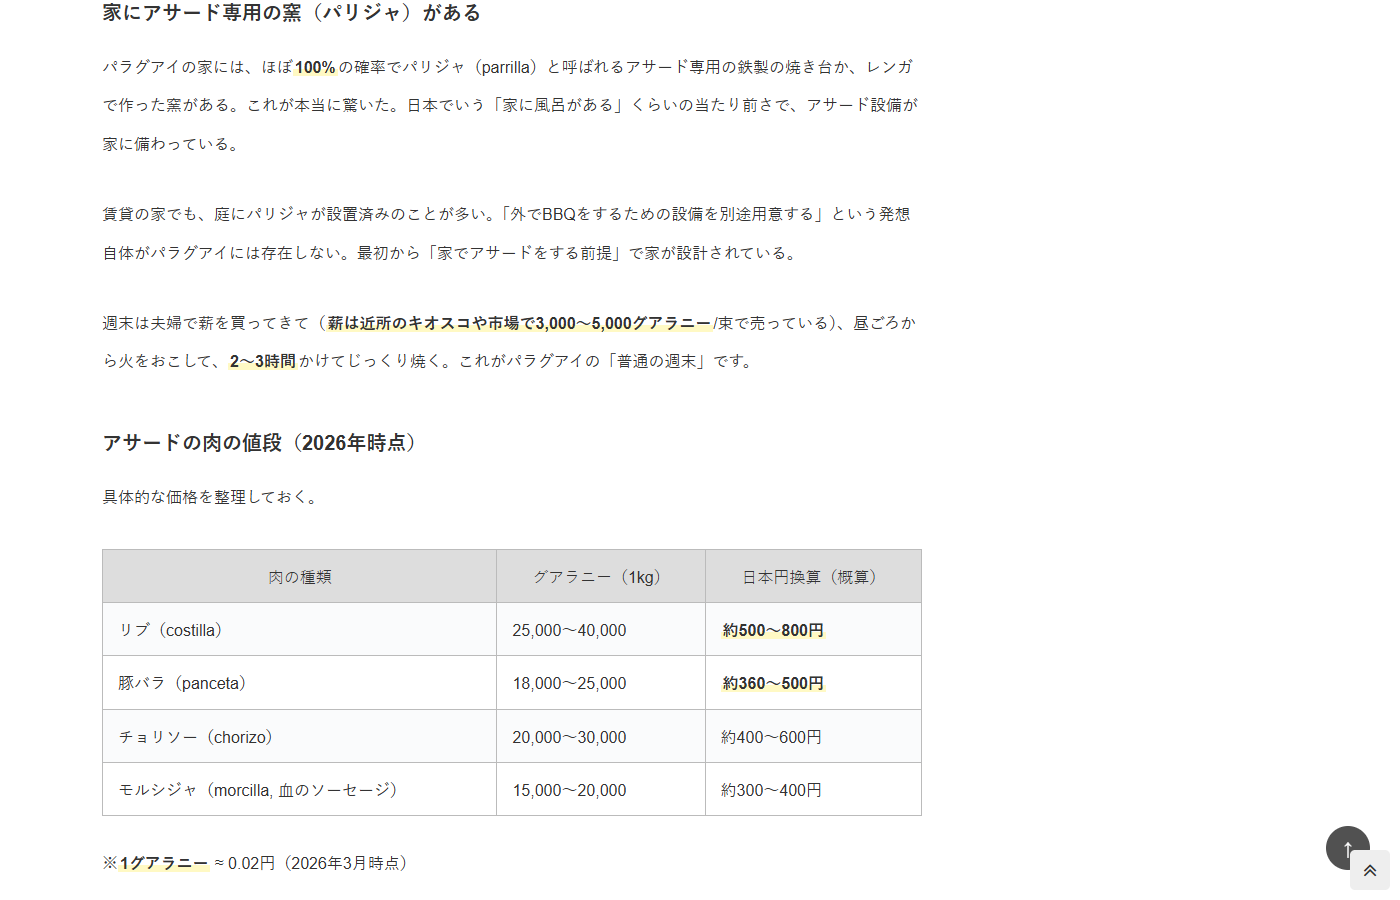
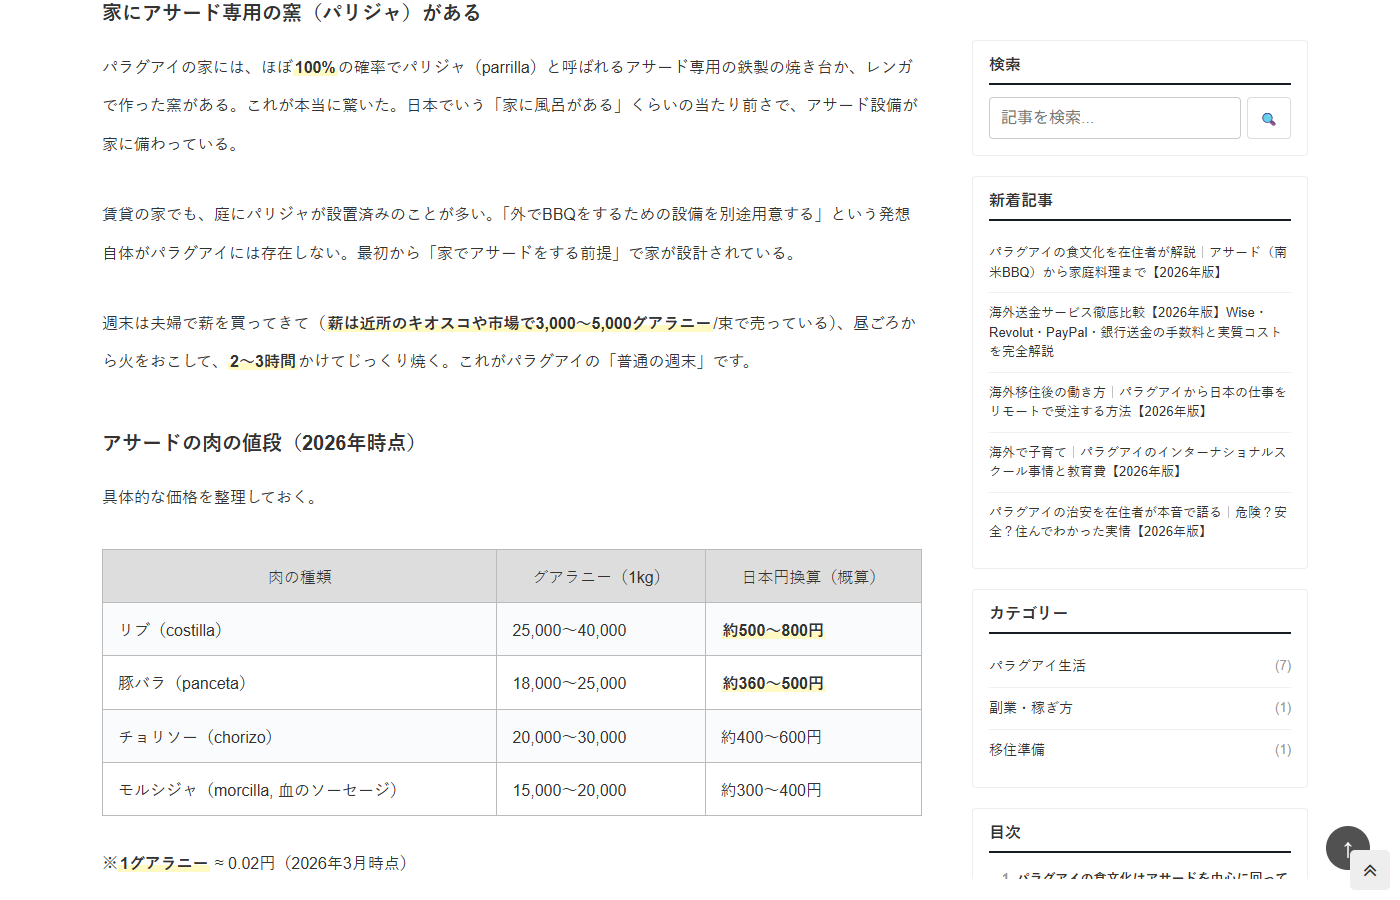
auto-sync: 2026-03-12 21:03:13

diff --git a/blog/design/single-article-cocoon.css b/blog/design/single-article-cocoon.css
@@ -23,7 +23,11 @@ body.single #main {
 body.single #sidebar {
   float: none !important;
   background: #fff !important;
-  align-self: stretch !important;
+  position: sticky !important;
+  top: 20px !important;
+  align-self: flex-start !important;
+  max-height: calc(100vh - 40px) !important;
+  overflow-y: auto !important;
 }
 body.single #sidebar .nao-tcd-sidebar-inner {
   display: flex;

diff --git a/blog/design/single-article-cocoon.js b/blog/design/single-article-cocoon.js
@@ -177,8 +177,6 @@
       }
       w.appendChild(list);
       sbi.appendChild(w);
-      w.style.position = 'sticky';
-      w.style.top = '100px';
     }
   }
 
